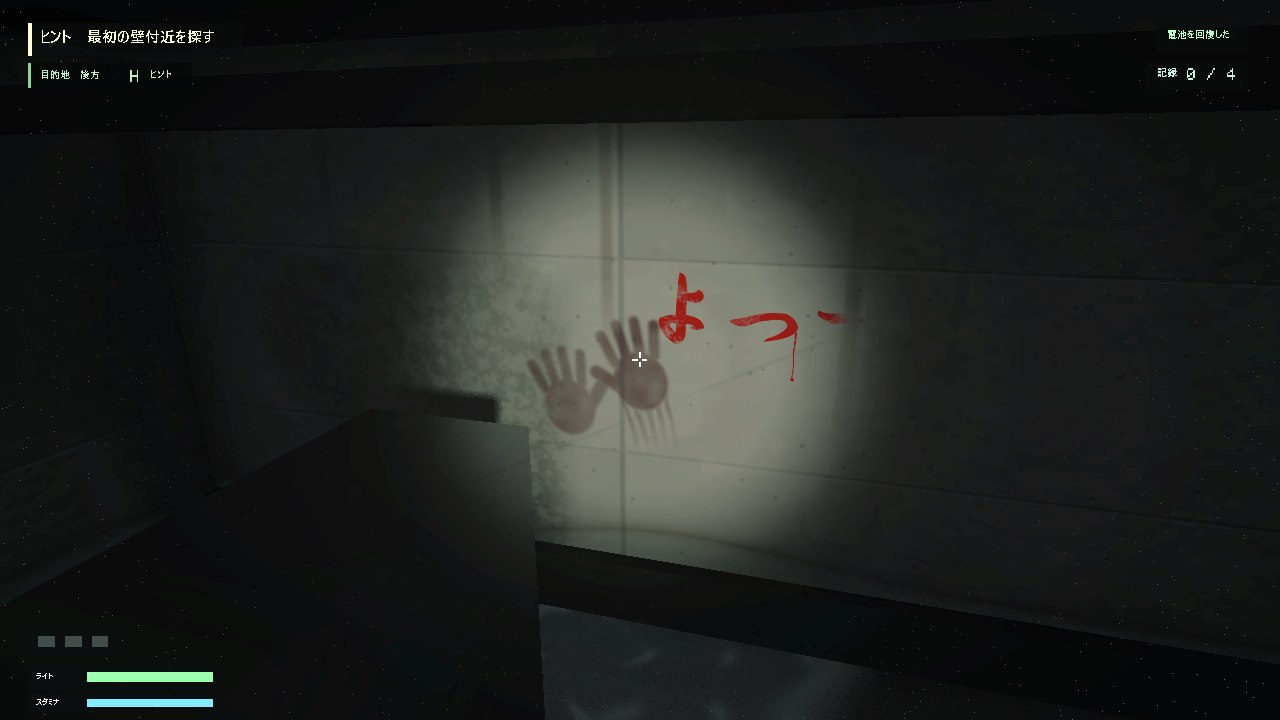
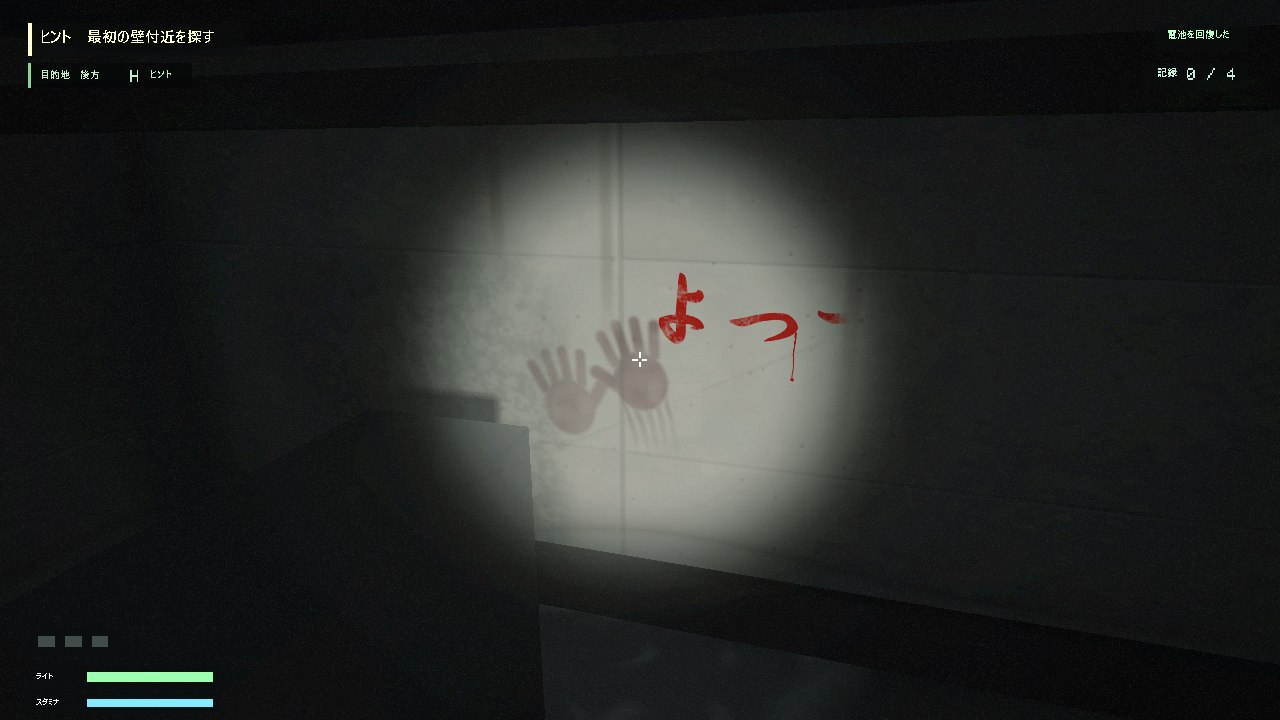
サイレントヒルとP.T.を参考に見た目を調整（懐中電灯の色、部屋全体の霧と電球の光を受けた霧、2面の白熱電球、細い輪の波紋、フィルムの粒と画面の端の色ずれ）。波紋をゆっくりにし、床の近くの霧を追加

Changed region(s): [[0.3438, 0.2444, 0.6562, 0.825]]

diff --git a/Job_application_work_horror/CeilingLight.cpp b/Job_application_work_horror/CeilingLight.cpp
@@ -371,7 +371,13 @@ void CeilingLight::Draw(Camera* camera)
     panel.Diffuse = Color(0.22f, 0.21f, 0.18f, 1.0f);
     if (Core::Game::GetInstance()->IsPowerRestored())
     {
-        if (m_IsFaulted)
+        if (m_IsWarmBulb && !m_IsFaulted)
+        {
+            // 暖かい白熱電球：橙がかった黄色で、電圧の揺れに合わせて少し沈む
+            const float warm = m_Brightness * GetWarmBulbSag();
+            panel.Emission = Color(0.95f * warm, 0.62f * warm, 0.30f * warm, 1.0f);
+        }
+        else         if (m_IsFaulted)
         {
             panel.Emission = Color(
                 0.52f * m_Brightness,
@@ -442,6 +448,11 @@ void CeilingLight::CollectPointLights(std::vector<ENVIRONMENT_POINT_LIGHT>& ligh
         pointLight.ColorIntensity = IsFaulted()
             ? Vector4(0.70f, 0.78f, 0.56f, brightness * 0.80f)
             : Vector4(0.88f, 0.94f, 0.84f, brightness * 0.95f);
+        if (m_IsWarmBulb && !IsFaulted())
+        {
+            // 暖かい白熱電球：照らす光も橙がかった色にし、電圧の揺れで少し沈む（P.T. の廊下の光）
+            pointLight.ColorIntensity = Vector4(1.0f, 0.66f, 0.36f, brightness * 1.40f * GetWarmBulbSag());
+        }
     }
     else
     {
@@ -449,4 +460,14 @@ void CeilingLight::CollectPointLights(std::vector<ENVIRONMENT_POINT_LIGHT>& ligh
             1.0f, 0.055f, 0.025f, brightness * 1.05f);
     }
     lights.push_back(pointLight);
+}
+
+// 白熱電球の電圧の揺れ：ゆっくりした小さな揺れに、数秒に一度だけ短く沈む揺れを重ねている（器具ごとに時間をずらしている）
+float CeilingLight::GetWarmBulbSag() const
+{
+    const float time = m_Time + m_FlickerOffset * 3.7f;
+    const float slow = std::sin(time * 1.3f) * 0.5f + 0.5f;
+    const float dipPhase = std::fmod(time, 6.3f);
+    const float dip = dipPhase < 0.18f ? std::sin(dipPhase / 0.18f * 3.14159265f) : 0.0f;
+    return 1.0f - slow * 0.04f - dip * 0.10f;
 }

diff --git a/Job_application_work_horror/GroundWaterEffects.cpp b/Job_application_work_horror/GroundWaterEffects.cpp
@@ -300,7 +300,7 @@ void WaterEffectSystem::UpdateFallingDrops(float deltaTime)
 			// 水たまりに落ちた水滴は、小さなおもりとして波を立てる
 			if (IsInsidePuddle(drop.Position))
 			{
-				m_RippleImpulses.emplace_back(drop.Position.x, drop.Position.z, 1.0f, -0.45f);
+				m_RippleImpulses.emplace_back(drop.Position.x, drop.Position.z, 0.8f, -0.45f);
 			}
 			drop.ImpactTimer = 0.55f;
 			drop.WaitTimer = 0.65f + drop.Seed * 1.9f;
@@ -418,7 +418,7 @@ bool WaterEffectSystem::TriggerFootstepRipple(
 
 	WaterRipple ripple{};
 	ripple.Position = Vector3(playerPosition.x, -99.96f, playerPosition.z);
-	ripple.Duration = sprinting ? 0.82f : 0.68f;
+	ripple.Duration = sprinting ? 1.35f : 1.15f;
 	ripple.MaxRadius = sprinting ? 4.4f : 3.2f;
 	m_FootstepRipples.push_back(ripple);
 	// 足音の波紋は最大8個まで（古いものから消している）
@@ -427,9 +427,10 @@ bool WaterEffectSystem::TriggerFootstepRipple(
 		m_FootstepRipples.erase(m_FootstepRipples.begin());
 	}
 	m_FootstepRippleCooldown = sprinting ? 0.22f : 0.36f;
-	// 波のシミュレーションへ、足を下ろした所を押し下げるおもりを渡している（走っているほど大きく強い）
+	// 波のシミュレーションへ、足を下ろした所を押し下げるおもりを渡している（走っているほど大きく強い）。
+	// おもりを小さく鋭くし、太い1本の波ではなく、細い輪が何重にも広がるようにしている（P.T. の水面を参考）
 	m_RippleImpulses.emplace_back(playerPosition.x, playerPosition.z,
-		sprinting ? 2.4f : 2.0f, sprinting ? -1.7f : -1.2f);
+		sprinting ? 1.7f : 1.4f, sprinting ? -1.7f : -1.2f);
 
 	// 走っているほど強く長く、レンズの曇りを出している（続けて出しすぎないよう間隔を空けている）
 	if (m_LensSplashCooldown <= 0.0f)

diff --git a/Job_application_work_horror/CeilingLight.h b/Job_application_work_horror/CeilingLight.h
@@ -40,6 +40,10 @@ private:
     bool m_IsEmergencyLight = false;
     bool m_IsFaulted = false;
     bool m_IsForcedOff = false;
+    // 暖かい白熱電球の色か（SetWarmBulb）
+    bool m_IsWarmBulb = false;
+    // 白熱電球の電圧の揺れ（0.86〜1）。時間で、ゆっくりした揺れと、まれに沈む揺れを重ねている
+    float GetWarmBulbSag() const;
     bool m_WasPowerRestored = false;
     // 進む先の照明：明るさと色はほかと同じまま、切れかけの電球のように不規則にちかちかさせる。
     // 行き先の候補か、今ちかちかさせる1灯か
@@ -97,6 +101,12 @@ public:
     {
         m_IsEmergencyLight = emergency;
         m_FlickerOffset = flickerOffset;
+    }
+
+    // P.T. の廊下のような、暖かい白熱電球の色の照明にしている（電力が戻った後の色。電圧が揺れて、ときどき少し暗くなる）
+    void SetWarmBulb(bool warm)
+    {
+        m_IsWarmBulb = warm;
     }
 
     // 故障した灯にしている（電力が戻っても不規則に消える）

diff --git a/Job_application_work_horror/WaterRippleSimulation.cpp b/Job_application_work_horror/WaterRippleSimulation.cpp
@@ -38,10 +38,10 @@ namespace
     // 1スレッドグループのマスの数（シェーダーのGROUP_SIZEと同じ）
     constexpr int GroupSize = 16;
     // (波の速さ × 1歩の秒数 ÷ マス目の長さ)²。0.5を超えると計算が発散するので、余裕を持たせている。
-    // マス目0.75、1秒60歩なので、波の速さは約27（1秒で水たまりの半分ほど進む）
-    constexpr float WaveSpeedSquared = 0.35f;
-    // 1歩ごとに高さに掛ける値。約1.1秒で半分の高さになり、波がいつまでも残らないようにしている
-    constexpr float Damping = 0.990f;
+    // マス目0.75、1秒60歩なので、波の速さは約13.5（静かな水面に広がる、ゆっくりした輪にしている。前の0.35では速すぎた）
+    constexpr float WaveSpeedSquared = 0.09f;
+    // 1歩ごとに高さに掛ける値。約1.6秒で半分の高さになる（波が遅くなった分、少し長く残している）
+    constexpr float Damping = 0.993f;
 }
 
 void WaterRippleSimulation::Init()

diff --git a/Job_application_work_horror/Stage2Layout.cpp b/Job_application_work_horror/Stage2Layout.cpp
@@ -488,6 +488,11 @@ namespace Stage2Layout
         light4->SetPosition(0.0f, -50.5f, 112.0f);
         light4->SetScale(18.0f, 2.0f, 8.0f);
         light4->SetEmergencyLight(false, 4.1f);
+        // 2面の廊下は、P.T. の廊下のような暖かい白熱電球の光にしている（1面は古い蛍光灯のまま）
+        for (CeilingLight* bulb : { light1, light2, light3, light4 })
+        {
+            bulb->SetWarmBulb(true);
+        }
 
         // 出口の扉と、その先の出口（調べるとリザルト画面へ）
         Door* door = builder.Create<Door>("Stage2Door");

diff --git a/Job_application_work_horror/CaptureMode.cpp b/Job_application_work_horror/CaptureMode.cpp
@@ -829,7 +829,7 @@ namespace Tools::CaptureMode
                 g_LastStepPosition = pose.Position;
                 for (Ground* ground : game->GetObjects<Ground>())
                 {
-                    ground->AddRippleImpulse(pose.Position, 2.0f, -1.2f);
+                    ground->AddRippleImpulse(pose.Position, 1.4f, -1.2f);
                 ground->RecordFootstep(pose.Position);
                 }
             }

diff --git a/docs/AI_USAGE.md b/docs/AI_USAGE.md
@@ -74,6 +74,8 @@
 | 時計の文字盤をシェーダーで描いた（ローマ数字・目盛り・針・ガラスのひび。箱の針を削除）、ロッカーで息を止める操作（影がロッカーの前まで探しに来る。息のゲージと聞かれる猶予）、懐中電灯の光の輪・くもりと電池の弱り（60%以下で暗く黄色く短く）、鏡に映る自分を円柱と楕円体の体にして歩くと手足を振るようにした、1面の西棟の水から後をついて来る誰かの足跡。自動撮影に電池が弱った場面を追加 | `shader/clockFace.hlsli`, `shader/clockPS.hlsl`, `shader/litTexturePS.hlsl`, `shader/flashlightLighting.hlsli`, `Wall.*`, `BreathHold.h`, `MirrorSelf.*`, `Player.cpp`, `Hud.h`, `HudScreens.cpp`, `Stage1Layout.*`, `StageScene.*`, `StageSceneEvents.cpp`, `Stage2Layout.*`, `Stage2Scene*.cpp`, `Stage2Scene.h`, `CaptureMode.cpp`, `README.md` | 設計・実装・撮影での確認 | 方針の選択（候補1〜5を続けて作る） |
 | 偽の扉の板をシェーダーで描いた木の扉にした（羽目板・木目・剥げた塗装・部屋番号の札・鍵穴）、天井の雨漏り（落ち続ける水滴と、広がっていく水たまり）、ロッカーの中で音が扉越しにこもり、探しに来た影の息づかいとロッカーに触れる音が聞こえるようにした、最後の追跡の山場（影の濡れた足跡、通り過ぎた照明が消える、肖像画の目と時計の針）。デバッグ画面と自動撮影に偽の扉と最後の追跡を出す操作と場面を追加 | `shader/doorPainting.hlsli`, `shader/doorPS.hlsl`, `shader/litTexturePS.hlsl`, `shader/wetFloorPS.hlsl`, `Wall.*`, `WaterEffectSystem.h`, `GroundWaterEffects.cpp`, `Ground.*`, `Game.*`, `Stage1Layout.cpp`, `Stage2Layout.cpp`, `Stage2Scene*.cpp`, `Stage2Scene.h`, `Scene.h`, `DebugUI.cpp`, `CaptureMode.cpp`, 技術デモの `DemoScene.cpp`, `README.md` | 設計・実装・撮影での確認 | 方針の選択（候補1〜4を続けて作る） |
 | グラフィックをホラー寄りにした（共通の色調 `horrorGrade.hlsli`：暗い所の彩度を落として沈め、影を緑がかった暗い青・明るい所を黄ばんだ蛍光灯の色に。霧を闇の色に、環境光・電力復旧後の照明を弱め、懐中電灯の光の輪を狭め、周辺減光と暗い所の粒を強め、信号盤と記録の目印の光を抑えた）。READMEの画像を作り直した | `shader/horrorGrade.hlsli`, `shader/litTexturePS.hlsl`, `shader/wetFloorPS.hlsl`, `shader/flashlightRevealPS.hlsl`, `shader/crtOverlayPS.hlsl`, `shader/signalPanelPS.hlsl`, `Player.cpp`, `CeilingLight.cpp`, `Stage2Layout.cpp`, `Stage2Scene.cpp`, `README.md`, `docs/images/*.jpg` | 色調と明るさの設計・撮影での比較 | 見た目の意見（グラフィックをもっとホラー寄りに） |
+| 水たまりの波紋をゆっくりにした（波の式の速さを約半分、減衰を弱め、足音の輪・水滴の輪・浸水した床と雨漏りの波も遅く）。床の近くに溜まって流れる霧を追加（高さの霧の解析的な積分と流れるノイズ、懐中電灯の円錐の中だけ白く浮かぶ）、光の筋に煙のむらを追加。READMEの画像を作り直した | `WaterRippleSimulation.cpp`, `GroundWaterEffects.cpp`, `shader/horrorMist.hlsli`, `shader/litTexturePS.hlsl`, `shader/wetFloorPS.hlsl`, `shader/volumetricFlashlightPS.hlsl`, `README.md`, `docs/images/*.jpg` | 速さと霧の設計・撮影での比較 | 見た目の意見（波紋が速すぎる、霧を入れてほしい） |
+| サイレントヒルと P.T. を参考に見た目を調整（懐中電灯の縁が黄色くにじむ光の色、部屋全体に漂う霧と、電球の光を受けてかすむ霧、2面の廊下を暖かい白熱電球の色にして電圧の揺れを追加、水たまりの波を細い輪が何重にも広がる形に、暗い粒と明るい粒のフィルムの粒と画面の端の色ずれを常に重ねる）。READMEの画像を作り直した | `shader/flashlightLighting.hlsli`, `shader/horrorMist.hlsli`, `shader/litTexturePS.hlsl`, `shader/wetFloorPS.hlsl`, `shader/crtOverlayPS.hlsl`, `CeilingLight.*`, `Stage2Layout.cpp`, `GroundWaterEffects.cpp`, `CaptureMode.cpp`, `README.md`, `docs/images/*.jpg` | 参考作品の見た目の分析・色と霧と粒の設計・撮影での比較 | 方針の選択（サイレントヒルと P.T. を参考にする） |
 
 ### 設計の整理・品質改善
 

diff --git a/README.md b/README.md
@@ -118,6 +118,8 @@ Debug構成では `F1` でImGuiデバッグ画面を表示できます。
 
 - HLSLによる懐中電灯、濡れ床、ブルーム、ビネット、フィルムグレインなどの画面表現
 - ホラー向けの色調（`shader/horrorGrade.hlsli`。壁・床・壁の文字で共通）。暗い所ほど色を抜き（彩度55%）、とても暗い所をさらに沈めて、光の届かない所を灰色ではなく闇にしている。影は病的な緑がかった暗い青、明るい所は黄ばんだ古い蛍光灯の色に寄せ、遠くの霧も灰色のもやではなく闇に溶ける色にしている。環境光を下げ、懐中電灯の光の輪を狭め（11〜26度）、電力が戻った後の天井照明も弱い緑がかった光にして、照らした所とその間の闇の差をはっきりさせている。画面の端の周辺減光を強め、暗い所ほどフィルムの粒が目立つようにしている
+- 床の近くに溜まって流れる霧（`shader/horrorMist.hlsli`。壁・床で共通）。高さで薄くなる霧の量を、視線に沿って解析的に積分し、時間で流れる2層のノイズで筋やかたまりにしている。懐中電灯は目の位置にあるので、視線の方向の光の強さを霧全体に使い、光の円錐の中だけ霧が白く浮かぶ（外は闇に近い色）。懐中電灯の光の筋（ボリュームライト）にも、逆向きにゆっくり流れる2つのノイズで煙のむらを足している
+- サイレントヒルと P.T. を参考にした見た目の調整。懐中電灯の光は中心が少し青みのある白で、縁へ行くほど黄色くにじむ（`GetFlashlightTint`）。部屋全体にも薄い霧を漂わせ、懐中電灯を向けた先が白くかすんで遠くが見通せないようにし、霧は近くの電球や非常灯の光を受けてその色でかすむ。2面の廊下の照明は暖かい白熱電球の色にし、電圧の揺れでときどきわずかに沈む（`CeilingLight::SetWarmBulb`）。水たまりの波は、おもりを小さく鋭くして、細い輪が何重にも広がるようにした。画面には、暗い粒と明るい粒の両方のフィルムの粒と、画面の端のわずかな色ずれを常に重ねている
 - Compute Shaderによるタイルベースライティング（画面を16x16のタイルに分け、タイルごとに影響する点光源だけを計算。光源数の上限を8個から256個へ拡張。深度プリパスの深度からタイルの一番奥の深度を求め、壁の向こうの光源も外す）
 - 深度プリパス（Zプリパス）。不透明な壁・床・扉の深度だけを本描画と同じ頂点シェーダーで先に描き、隠れた画素の重いピクセルシェーダーを省く。本描画のGPU時間が2.3〜4.8msから1.3〜1.5msに減った（RTX 3050 Laptop、1920x1080。導入前後の画面を画素単位で比べて見た目が変わらないことを確認）
 - Compute Shaderによる自動露出。画面の明るさの対数平均（中央を重く）を1グループ256スレッドで求め、暗い所へはゆっくり・明るい所へは素早く目が慣れる。結果はGPUのバッファに置いたまま露出のシェーダーが読み、CPUへ読み戻さない
@@ -150,6 +152,8 @@ Debug構成では `F1` でImGuiデバッグ画面を表示できます。
 
 ## 試したことと直したこと（経緯）
 
+- **水たまりの波紋が速すぎた**：波の式の速さ（1歩あたりの波の進み）が大きく、輪が1秒で水たまりの半分ほど広がって、水らしい落ち着きがなかった。
+  波の速さを約半分（毎秒約13.5）にし、その分ゆっくり消えるよう減衰を弱め、足音の輪・水滴の輪・雨漏りの波の動きもゆっくりにした。
 - **グラフィックがホラーらしくない、という意見をもらった**：画面全体が明るく、色も多く、清潔なオフィスのように見えていた。
   原因は、環境光（懐中電灯の光の外の明るさ）が高く、遠くの霧が明るい灰色で、色調の補正も控えめだったこと。
   色調を共通の処理（`horrorGrade.hlsli`）にまとめ、彩度を落として暗い所を沈め、霧を闇の色に、環境光と照明を弱め、懐中電灯の光の輪を狭めた。
